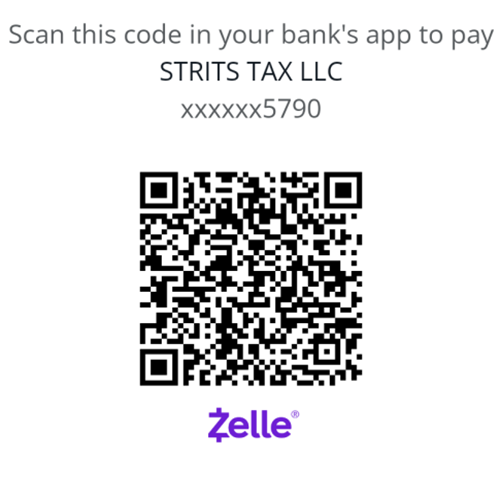
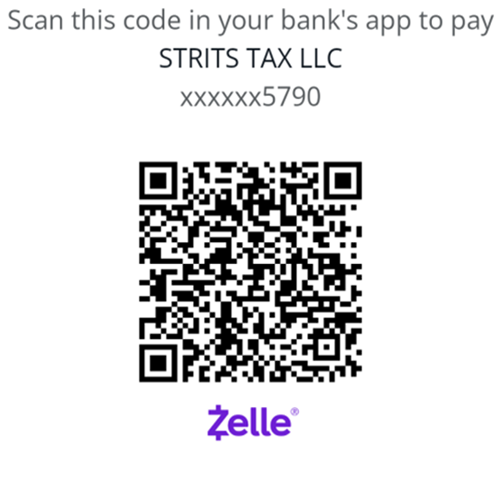
IN sales invoice, both QR codes are aligned properly

Changed region(s): [[0.27, 0.3, 0.75, 0.78], [0.0, 0.0, 0.99, 0.24], [0.42, 0.81, 0.6, 0.9]]

diff --git a/resources/views/admin/Backend/Sales/view_sales.blade.php b/resources/views/admin/Backend/Sales/view_sales.blade.php
@@ -54,9 +54,10 @@
     }
 
     .t {
-  border: 1px solid black;
-  border-collapse: collapse;
-}
+        border: 1px solid black;
+        border-collapse: collapse;
+      }
+
 
 </style>
 
@@ -75,8 +76,6 @@
       </td>
     </tr>
   </table>
-  
-
 
   <table width="100%" style="background:white; padding:2px;"></table>
   <table width="100%" style="background: #ffffff; padding:0 5px 0 5px;" class="font">
@@ -105,20 +104,12 @@
         </div>
         </td>
         <td align="right">
-          <div class="font" style="margin-top: 40px; text-align: right; display: flex; gap: 10px; justify-content: flex-end;">
-            <!-- Image 1 with description -->
-            <div style="text-align: center; display: inline-block;">
+          <div class="font" style="margin-top: 40px; text-align: right; display: flex; gap: 10px; justify-content: flex-end; align-items: center;">
               <img width="150px" height="150px" src="assets/img/qrzelle.png" alt="">
-            
-            </div>
-            <!-- Image 2 with description -->
-            <div style="text-align: center; display: inline-block;">
               <img width="150px" height="150px" src="assets/img/qrzelle1.png" alt="">
-             
-            </div>
           </div>
-        </td>
-        
+      </td>
+      
         
     </tr>
   </table>
@@ -226,8 +217,6 @@
   <div style="position: fixed; bottom: 10px; left: 0; width: 100%; text-align: center; font-size: 12px; font-family: Verdana, Arial, sans-serif; color: #000000;">
     <strong>STRITS TAX LLC | Thank you for your business!</strong>
   </div>
-  
-  
 
 </body>
 </html> 
